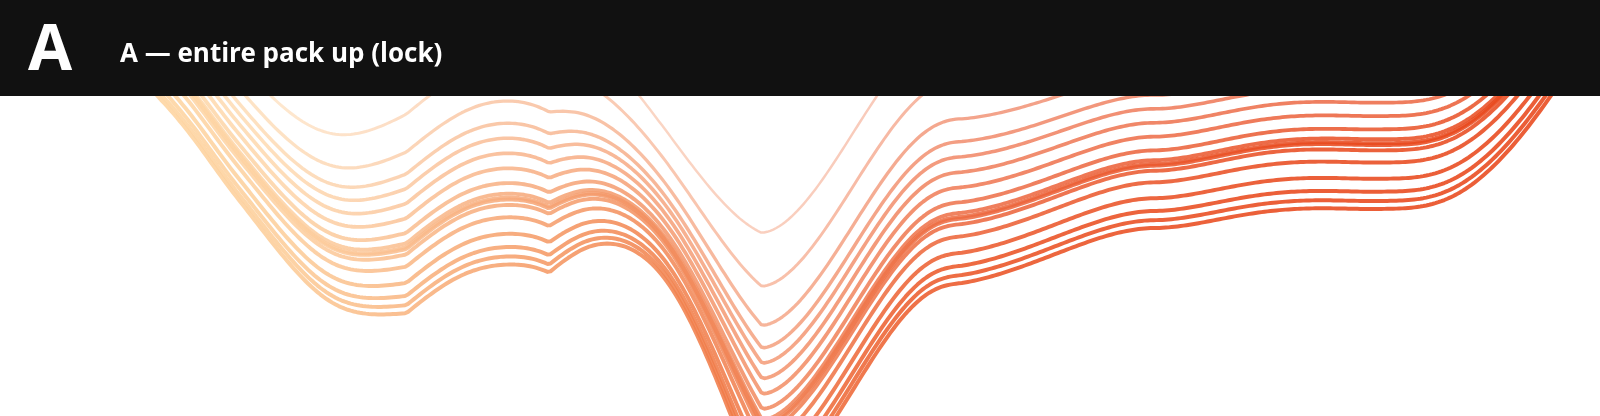
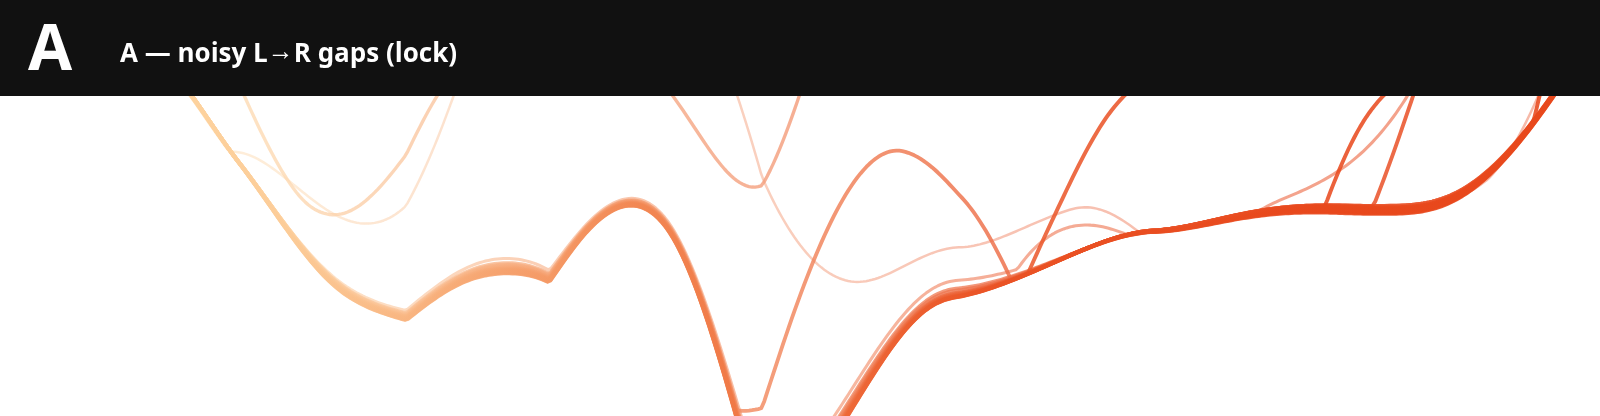
feat(lab): vary Twizzler ribbon gaps along X with noise (#CF-16)
Warp fiber across-positions with an along-ribbon noise field so packing
opens and closes irregularly left→right instead of fixed parallel gaps.

Changed region(s): [[0.0938, 0.2188, 0.9688, 1.0], [0.0938, 0.0938, 0.2812, 0.1562]]

diff --git a/apps/lab/src/twizzler.ts b/apps/lab/src/twizzler.ts
@@ -484,6 +484,33 @@ export function twizzlerExpandAcross(across: number, expand: number): number {
 }
 
 /**
+ * Warp fiber across-position along X with noise so inter-ribbon gaps
+ * open/close irregularly from left → right (not a fixed parallel pack).
+ */
+export function twizzlerGapWarpedAcross(
+  across: number,
+  xT: number,
+  fiberIndex: number,
+  gapNoise = 0.9,
+  seed = 3.1,
+): number {
+  const x = Math.max(0, Math.min(1, xT));
+  const amount = Math.max(0, Math.min(2.5, gapNoise));
+  // Pack fan scale along the ribbon — large L→R swings.
+  const pack =
+    0.25 +
+    1.7 * twizzlerNoise(x * 2.15 + seed * 0.2, seed * 0.71, 0.33) +
+    0.85 * twizzlerNoise(x * 4.8 + 1.3, seed * 1.4, 0.88) +
+    0.4 * twizzlerNoise(x * 9.2 + 0.6, seed * 0.5, 1.6);
+  // Neighbor gap jitter — each fiber drifts differently along X.
+  const jitter =
+    (twizzlerNoise(x * 3.4 + fiberIndex * 0.67, fiberIndex * 1.19 + seed, 1.35) - 0.5) * (0.7 + amount) +
+    (twizzlerNoise(x * 7.6 + fiberIndex * 0.31, seed + 2.4, 0.55) - 0.5) * (0.35 + amount * 0.45);
+  const warped = across * (0.45 + amount * 0.55) * pack + jitter * amount * 0.85;
+  return Math.max(-1.5, Math.min(1.5, warped));
+}
+
+/**
  * Uneven fiber slots across [-1,1] — irregular gaps instead of even spacing.
  * `gapNoise` 0 = uniform; ~0.35–0.7 = organic cluster/spread.
  */
@@ -600,6 +627,7 @@ export function buildTwizzlerLines(
 
   // Gap irregularity + Z-wave amplitude ride on existing wrinkle/depthLift knobs.
   const gapNoise = 0.65 + settings.wrinkleStrength * 24;
+  const alongGapNoise = 0.85 + settings.wrinkleStrength * 28 + settings.depthSpread * 0.2;
   const terrainBoost = settings.depthTerrain === 1 ? 1.35 : settings.depthTerrain === 2 ? 1.55 : 1;
   const waveAmp = (1.0 + settings.depthLift * 1.4) * terrainBoost;
   const rawSlots = twizzlerUnevenAcross(
@@ -666,12 +694,12 @@ export function buildTwizzlerLines(
         halfW *
         2.2;
       const rightEdge = Math.pow(smoothstep(0.35, 1, c.xT), 1.1);
-      // Explicit SCREEN-Y stack: fibers spaced vertically by depthSpread (this is the pack open).
-      // 2x open vs prior A pack so individual ribbons read clearly separated.
+      // Explicit SCREEN-Y stack with along-X noise so gaps vary a lot left → right.
       const verticalOpen = (0.95 + settings.depthSpread * 0.55) * 2;
-      const stackY = across * halfW * verticalOpen;
+      const acrossX = twizzlerGapWarpedAcross(across, c.xT, range, alongGapNoise, 2.7 + settings.wrinkles * 0.12);
+      const stackY = acrossX * halfW * verticalOpen;
       // Far fibers still sit lower on the right.
-      const farDownStack = -across * halfW * rightEdge * (0.25 + settings.depthLift * 0.2) * (0.3 + far * 0.5);
+      const farDownStack = -acrossX * halfW * rightEdge * (0.25 + settings.depthLift * 0.2) * (0.3 + far * 0.5);
       const faceY = ny * projected * 0.35;
       const zLane = far * halfW * (0.05 + 0.12 * rightEdge) * (0.4 + settings.depthSpread * 0.25);
       const x = c.x + nx * braid * halfW * 0.02 * Math.sin(fiberTheta);

diff --git a/apps/lab/src/twizzler.test.ts b/apps/lab/src/twizzler.test.ts
@@ -13,6 +13,7 @@ import {
   twizzlerFogAmount,
   twizzlerFogColor,
   twizzlerDepthYBias,
+  twizzlerGapWarpedAcross,
   twizzlerStrokeWidthScale,
   twizzlerUnevenAcross,
   twizzlerMarketingCenterY,
@@ -168,6 +169,13 @@ describe("Twizzler", () => {
     const evenGaps = Array.from({ length: 11 }, (_, i) => slots[i + 1]! - slots[i]!);
     const gapSpread = Math.max(...evenGaps) - Math.min(...evenGaps);
     expect(gapSpread).toBeGreaterThan(0.02);
+
+    // Along-X gap warp must change packing a lot from left to right.
+    const leftGap = twizzlerGapWarpedAcross(0.6, 0.15, 4, 1.2);
+    const midGap = twizzlerGapWarpedAcross(0.6, 0.5, 4, 1.2);
+    const rightGap = twizzlerGapWarpedAcross(0.6, 0.88, 4, 1.2);
+    expect(Math.abs(leftGap - rightGap)).toBeGreaterThan(0.08);
+    expect(Math.abs(leftGap - midGap) + Math.abs(midGap - rightGap)).toBeGreaterThan(0.12);
 
     const settings = normalizeTwizzlerSettings({
       depthAmount: 1.15,
